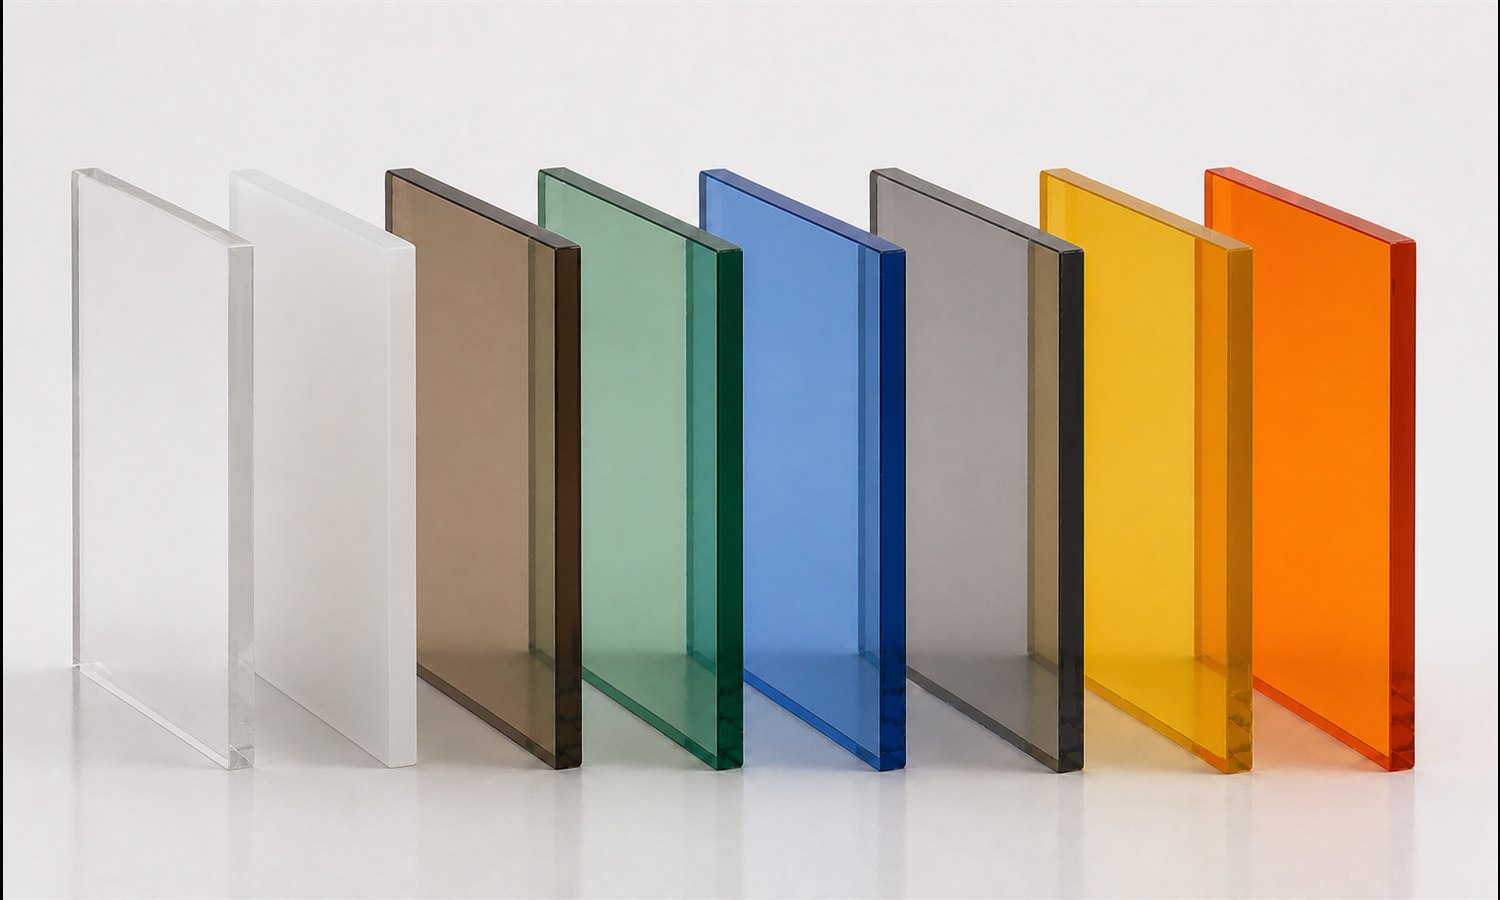
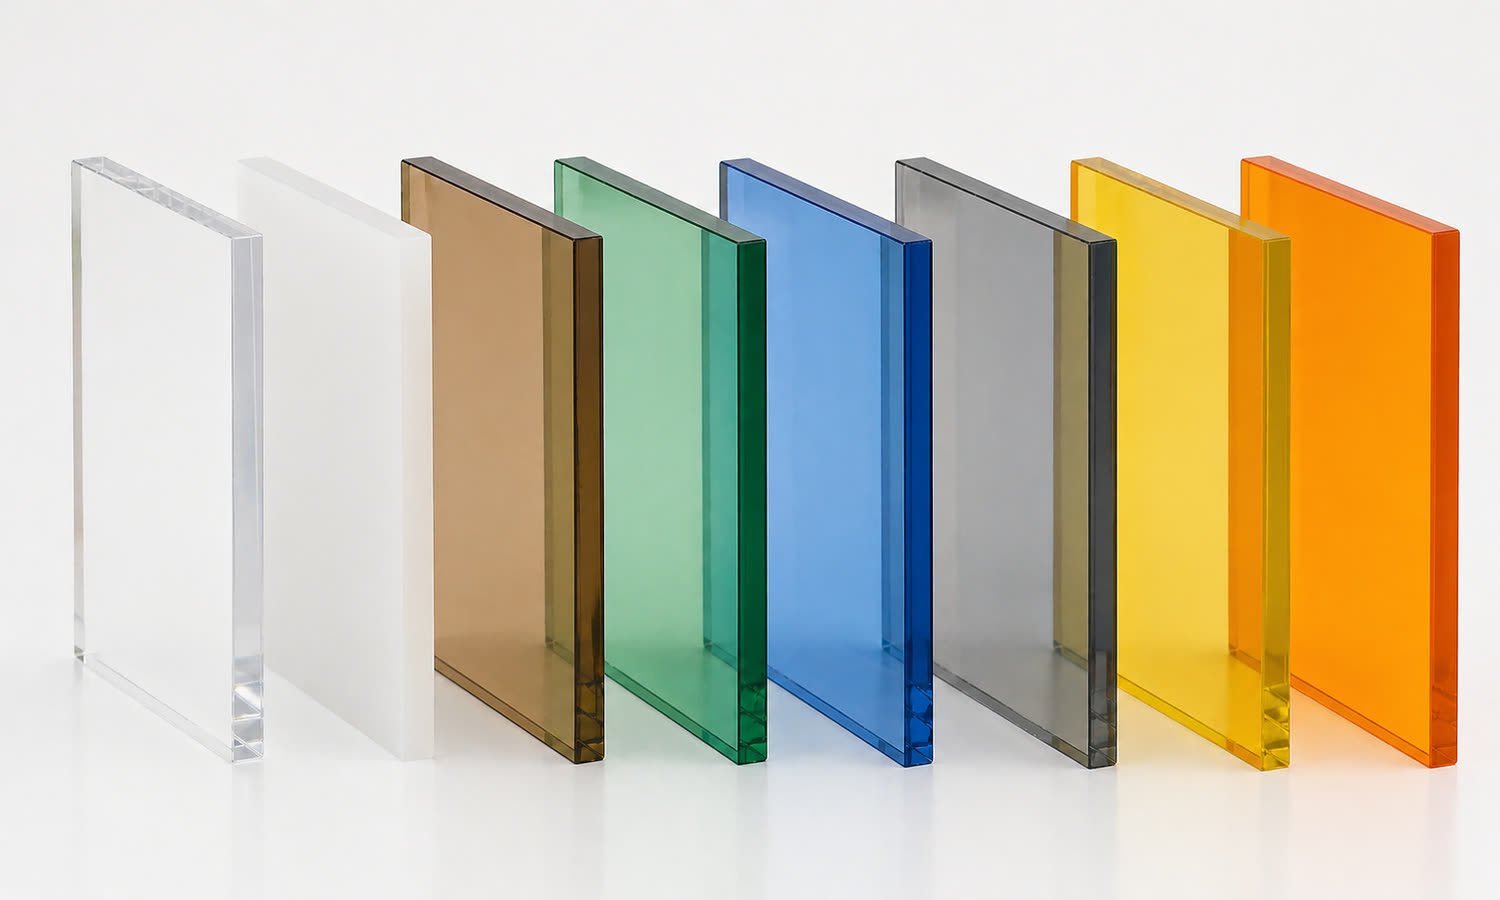
solid.html: revert 44.jpg gallery shot to the pre-today original
Restored from git (parent of 0eefa5b) — the clean 8-sheets-in-a-row
photo. img/42.jpg (home Solid card) is left alone, still uses the
ChatGPT-generated row composition. Bump 44.jpg cache to ?v=4.

diff --git a/solid.html b/solid.html
@@ -142,7 +142,7 @@
         </div>
         <div class="product-overview-images overview-images-grid animate-on-scroll" style="align-self:start;margin-top:68px;">
           <img loading="lazy" src="img/43.jpg?v=3" alt="Solid sheets">
-          <img loading="lazy" src="img/44.jpg?v=3" alt="Solid Polycarbonate Sheets">
+          <img loading="lazy" src="img/44.jpg?v=4" alt="Solid Polycarbonate Sheets">
           <img loading="lazy" src="img/45.jpg" alt="Solid sheets colors">
           <img loading="lazy" src="img/46.jpg?v=2" alt="Solid sheets standing">
         </div>